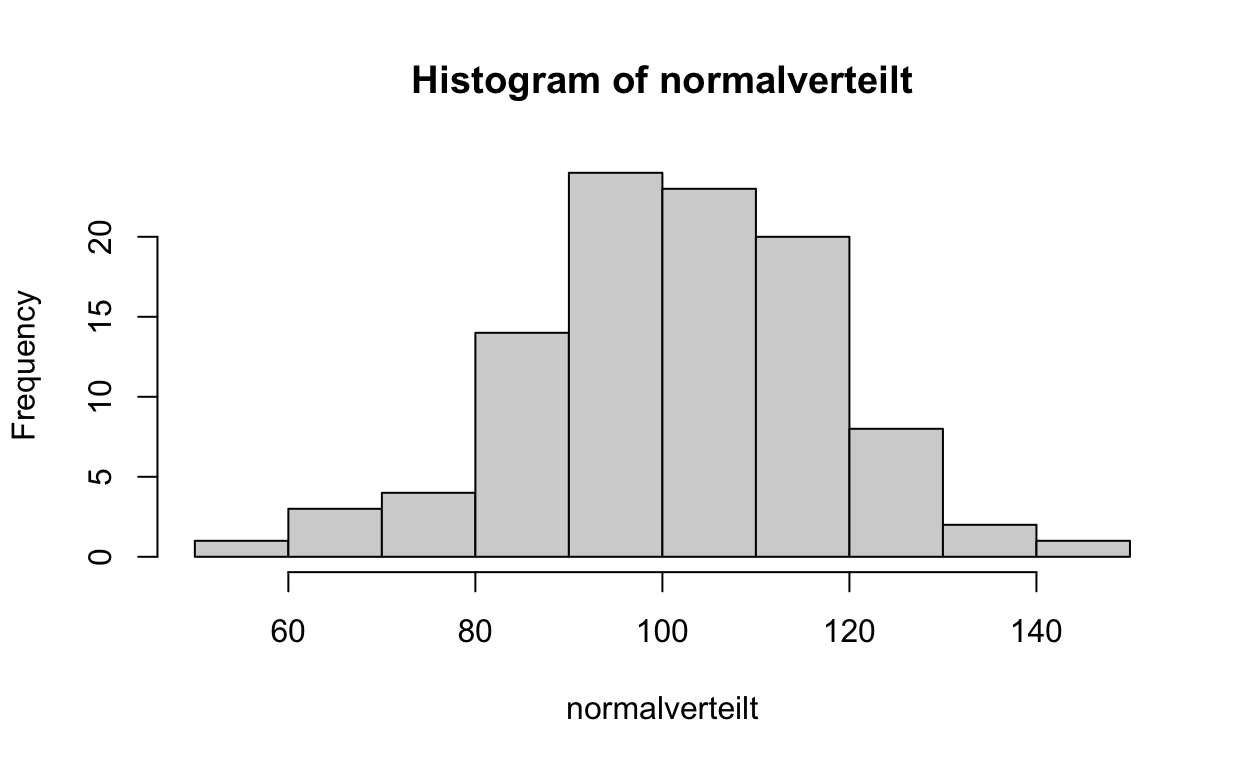
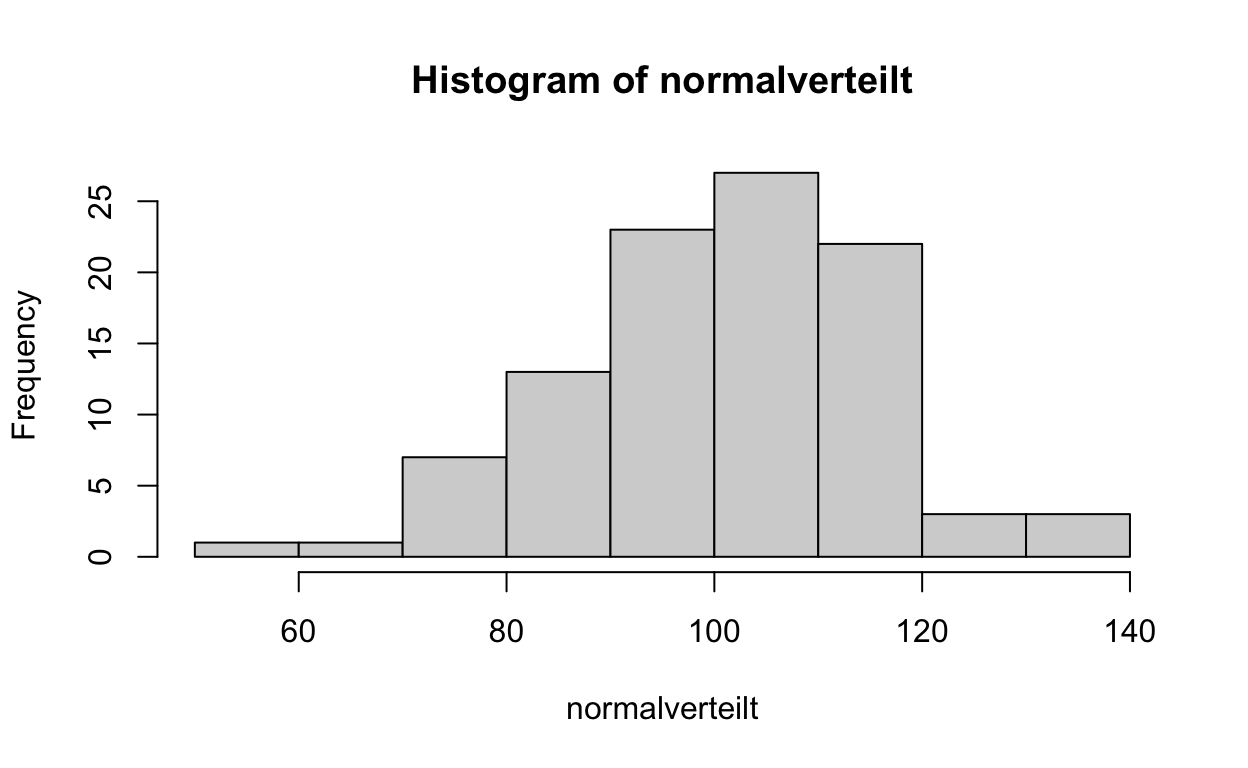
more

diff --git a/docs/Basic_R_VariabelsFunctions.html b/docs/Basic_R_VariabelsFunctions.html
@@ -2701,8 +2701,8 @@ Sie die folgende Argumente:</p>
 <div class="sourceCode">
 <pre class="sourceCode r"><code class="sourceCode r"><span><span class='fu'><a href='https://rdrr.io/r/stats/Normal.html'>rnorm</a></span><span class='op'>(</span>n <span class='op'>=</span> <span class='fl'>10</span>, mean <span class='op'>=</span> <span class='fl'>0</span>, sd <span class='op'>=</span> <span class='fl'>1</span><span class='op'>)</span> </span></code></pre>
 </div>
-<pre><code> [1] -0.12666801  0.06019889  1.62862364  1.24297123  1.31156939
- [6]  0.42676467  0.55279464 -0.25893738  0.12541350 -1.12858200</code></pre>
+<pre><code> [1] -1.59282662 -0.05983606 -0.19850790  0.82325465  0.02781147
+ [6]  2.15016170  0.10099703  1.24394597  0.64962677 -0.79322506</code></pre>
 </div>
 <ol start="3" type="1">
 <li>Die Funktion hist() erstellt ein Histogramm aus dem Vektor normalverteilter Variablen. Dies ist ein Beispiel dafür, wie Funktionen auch Grafiken aus Objekten generieren können.</li>
